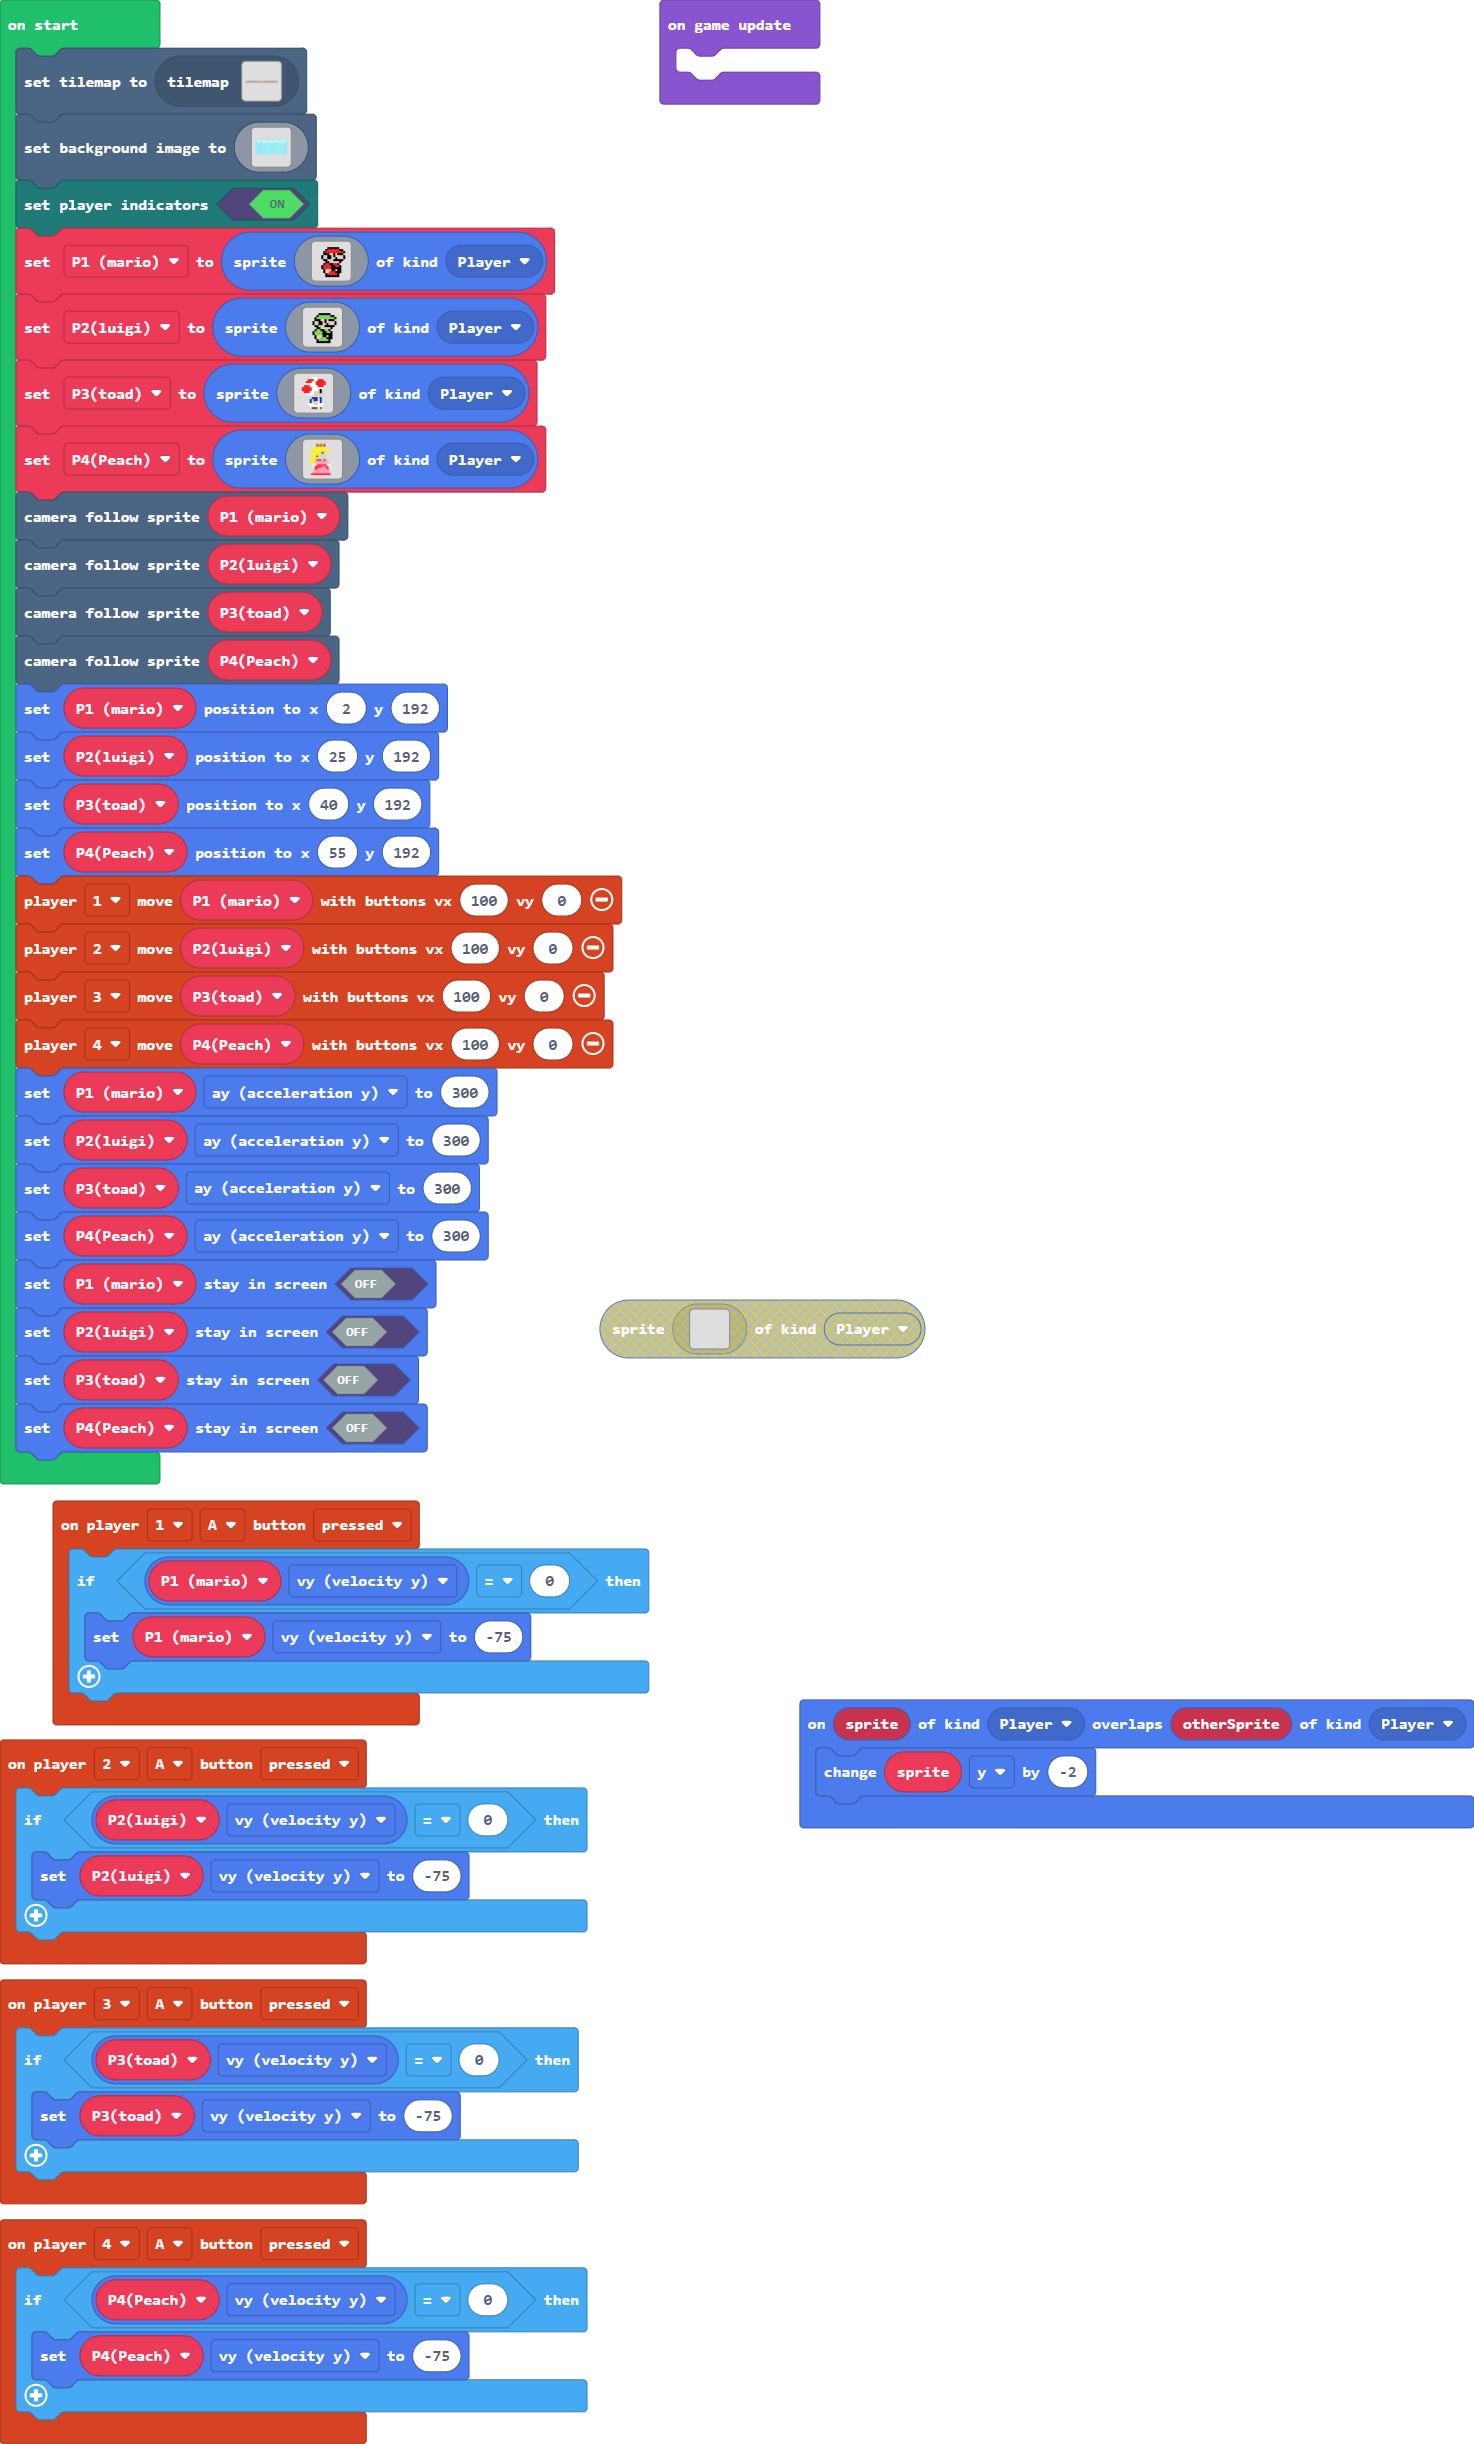
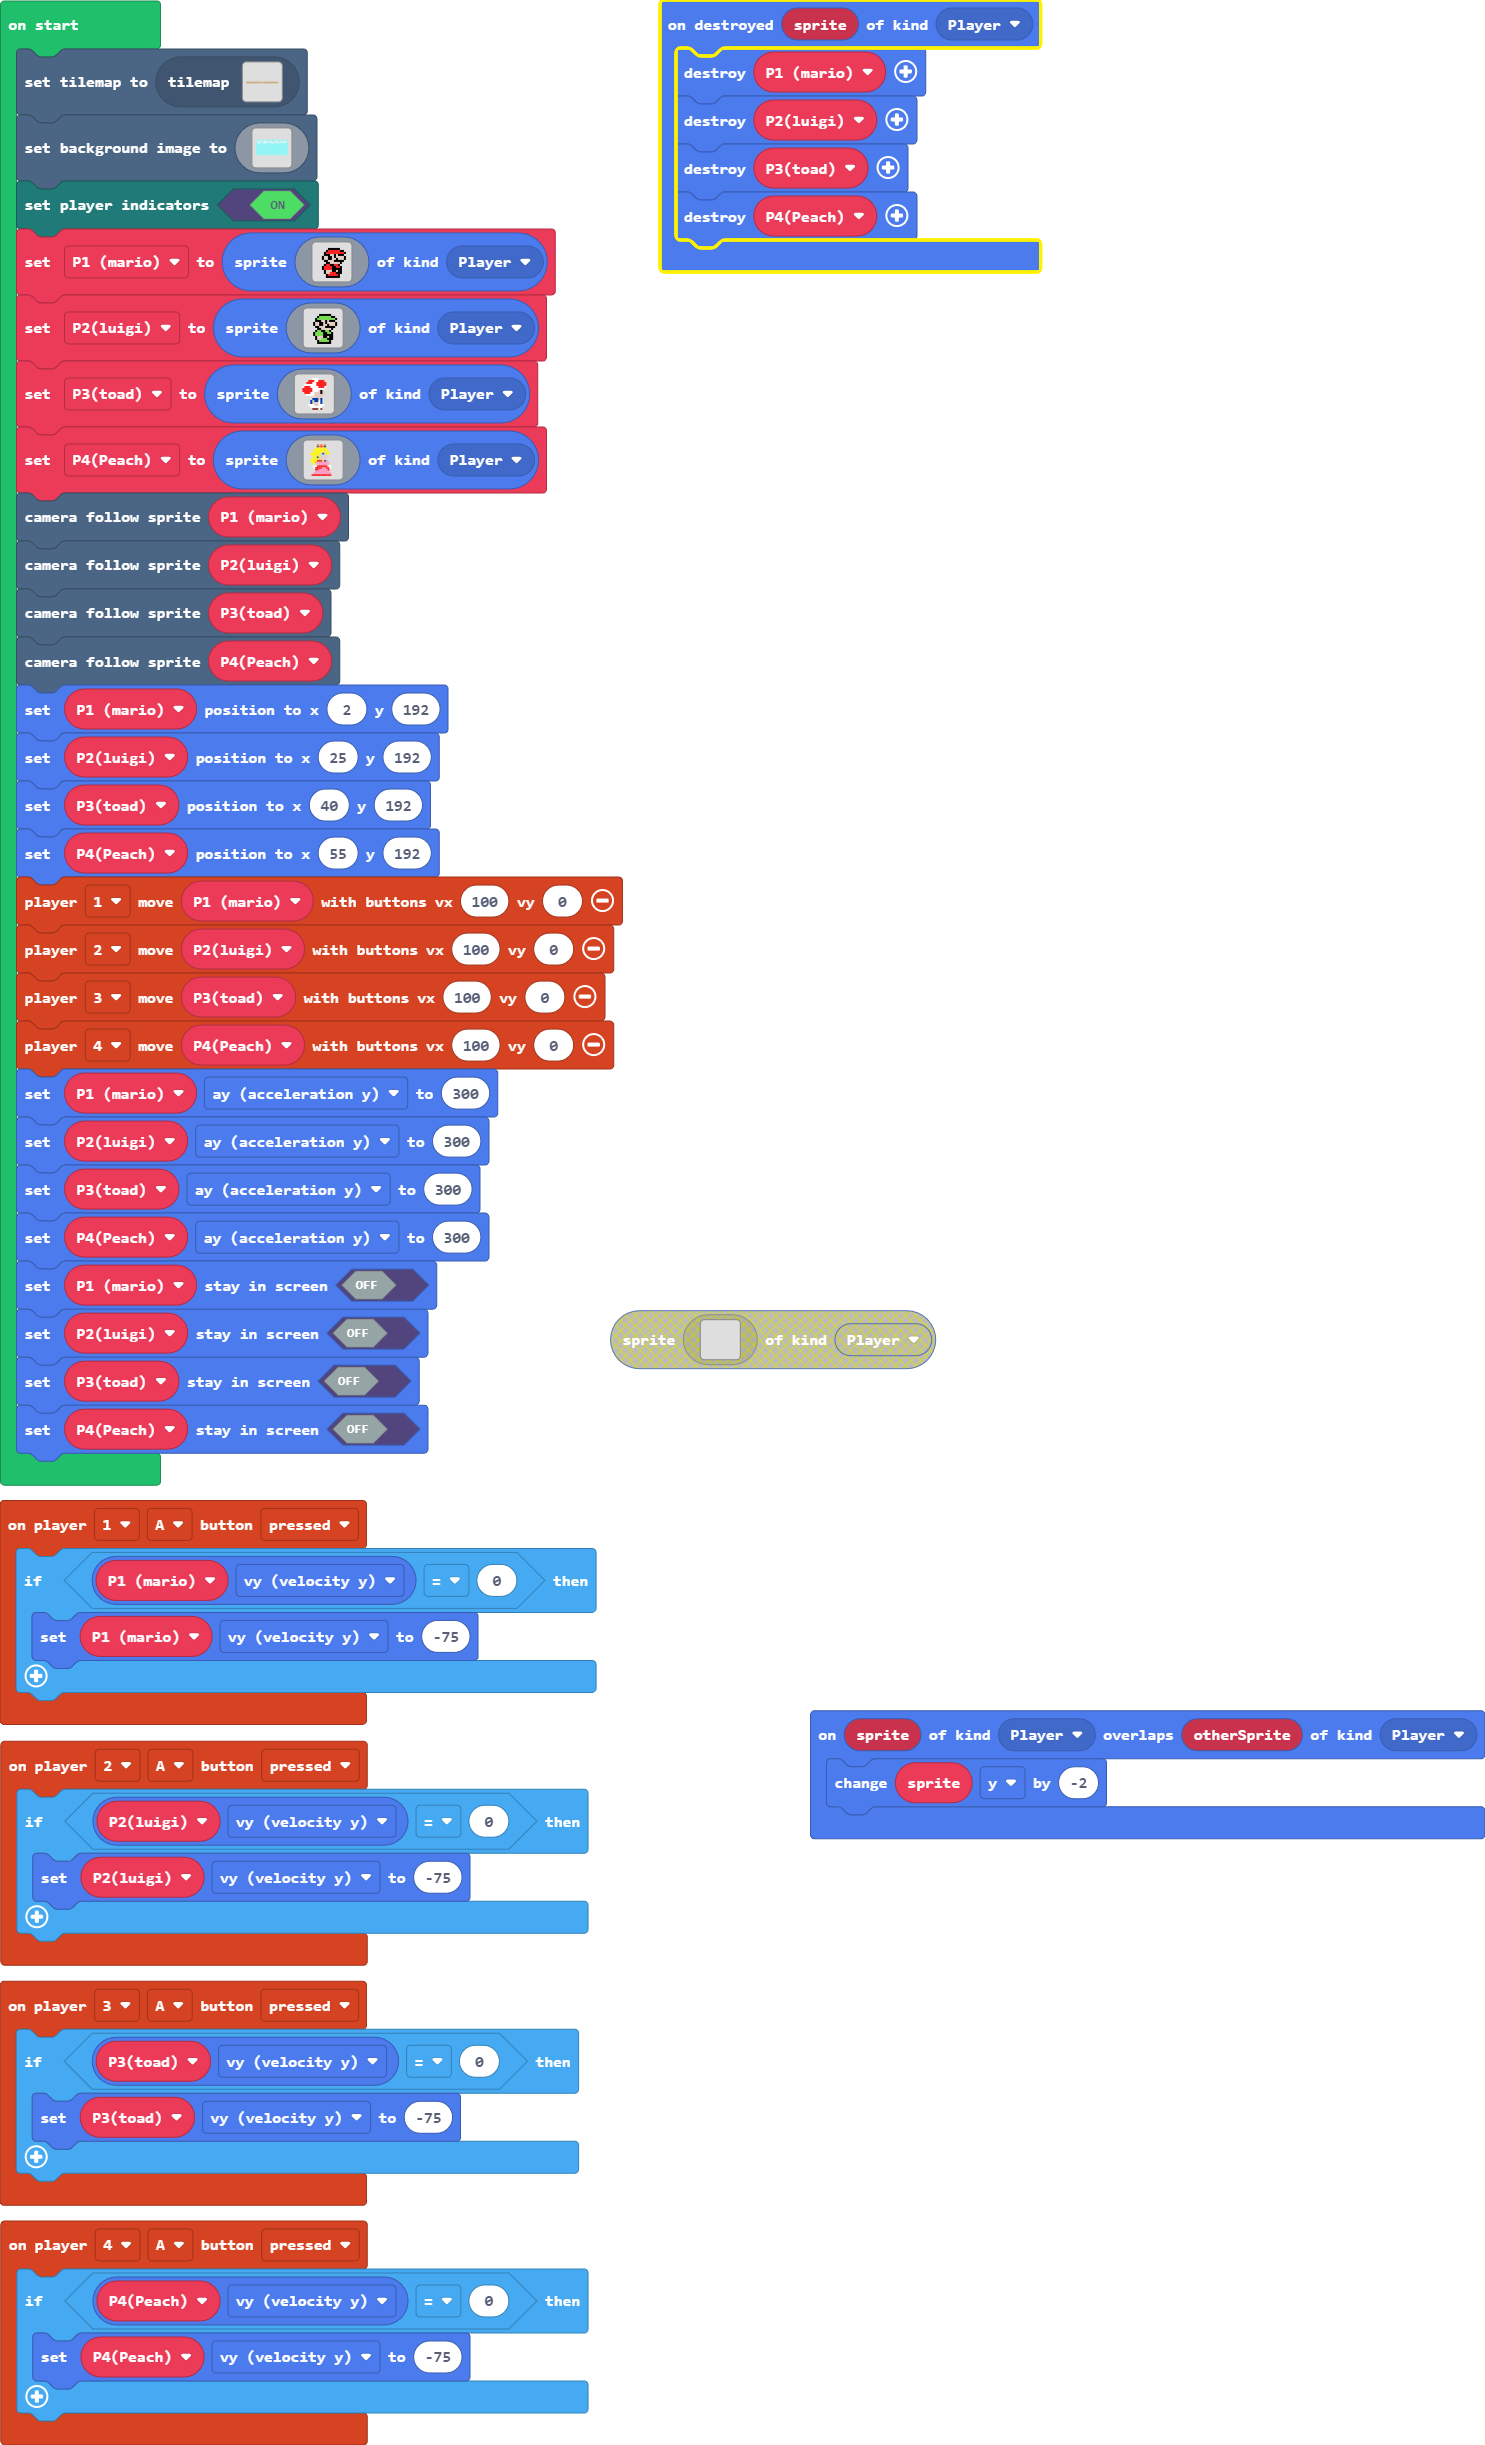
Update main.blocks, main.ts

diff --git a/main.ts b/main.ts
@@ -21,6 +21,12 @@ controller.player3.onButtonEvent(ControllerButton.A, ControllerButtonEvent.Press
         P3toad.vy = -75
     }
 })
+sprites.onDestroyed(SpriteKind.Player, function (sprite) {
+    sprites.destroy(P1_mario)
+    sprites.destroy(P2luigi)
+    sprites.destroy(P3toad)
+    sprites.destroy(P4Peach)
+})
 let P4Peach: Sprite = null
 let P3toad: Sprite = null
 let P2luigi: Sprite = null
@@ -173,6 +179,3 @@ P1_mario.setStayInScreen(false)
 P2luigi.setStayInScreen(false)
 P3toad.setStayInScreen(false)
 P4Peach.setStayInScreen(false)
-game.onUpdate(function () {
-	
-})
